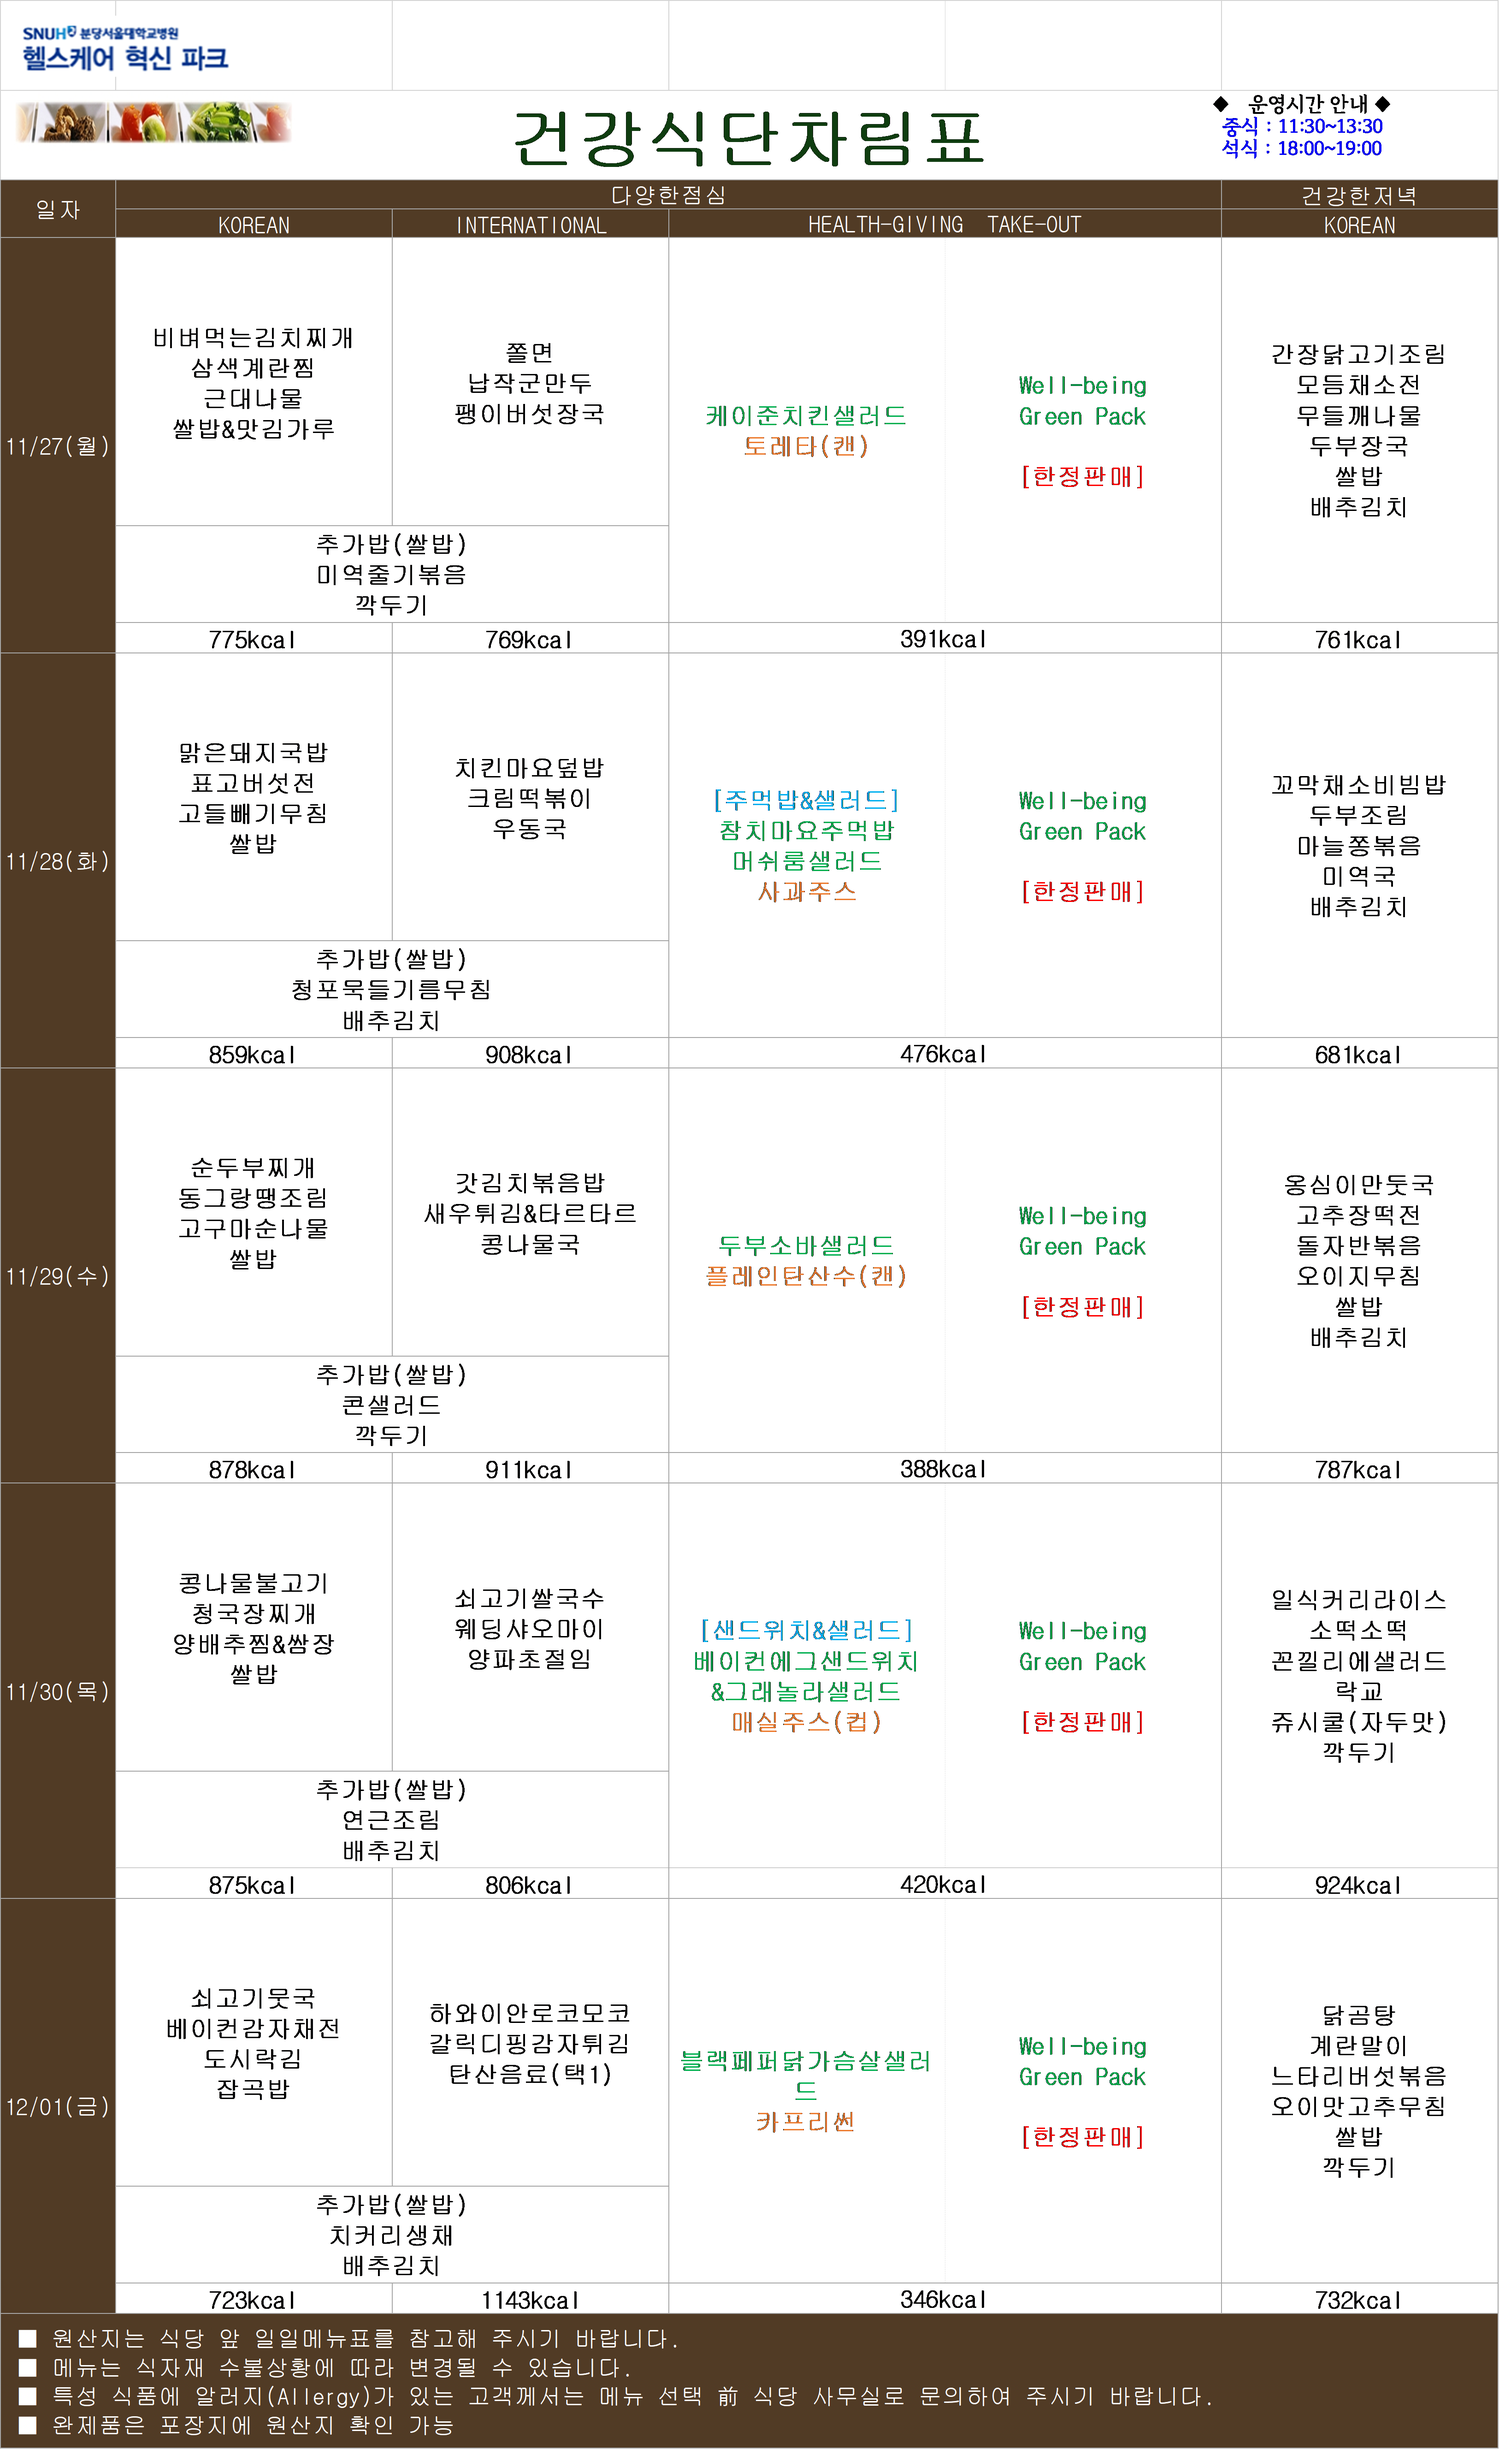
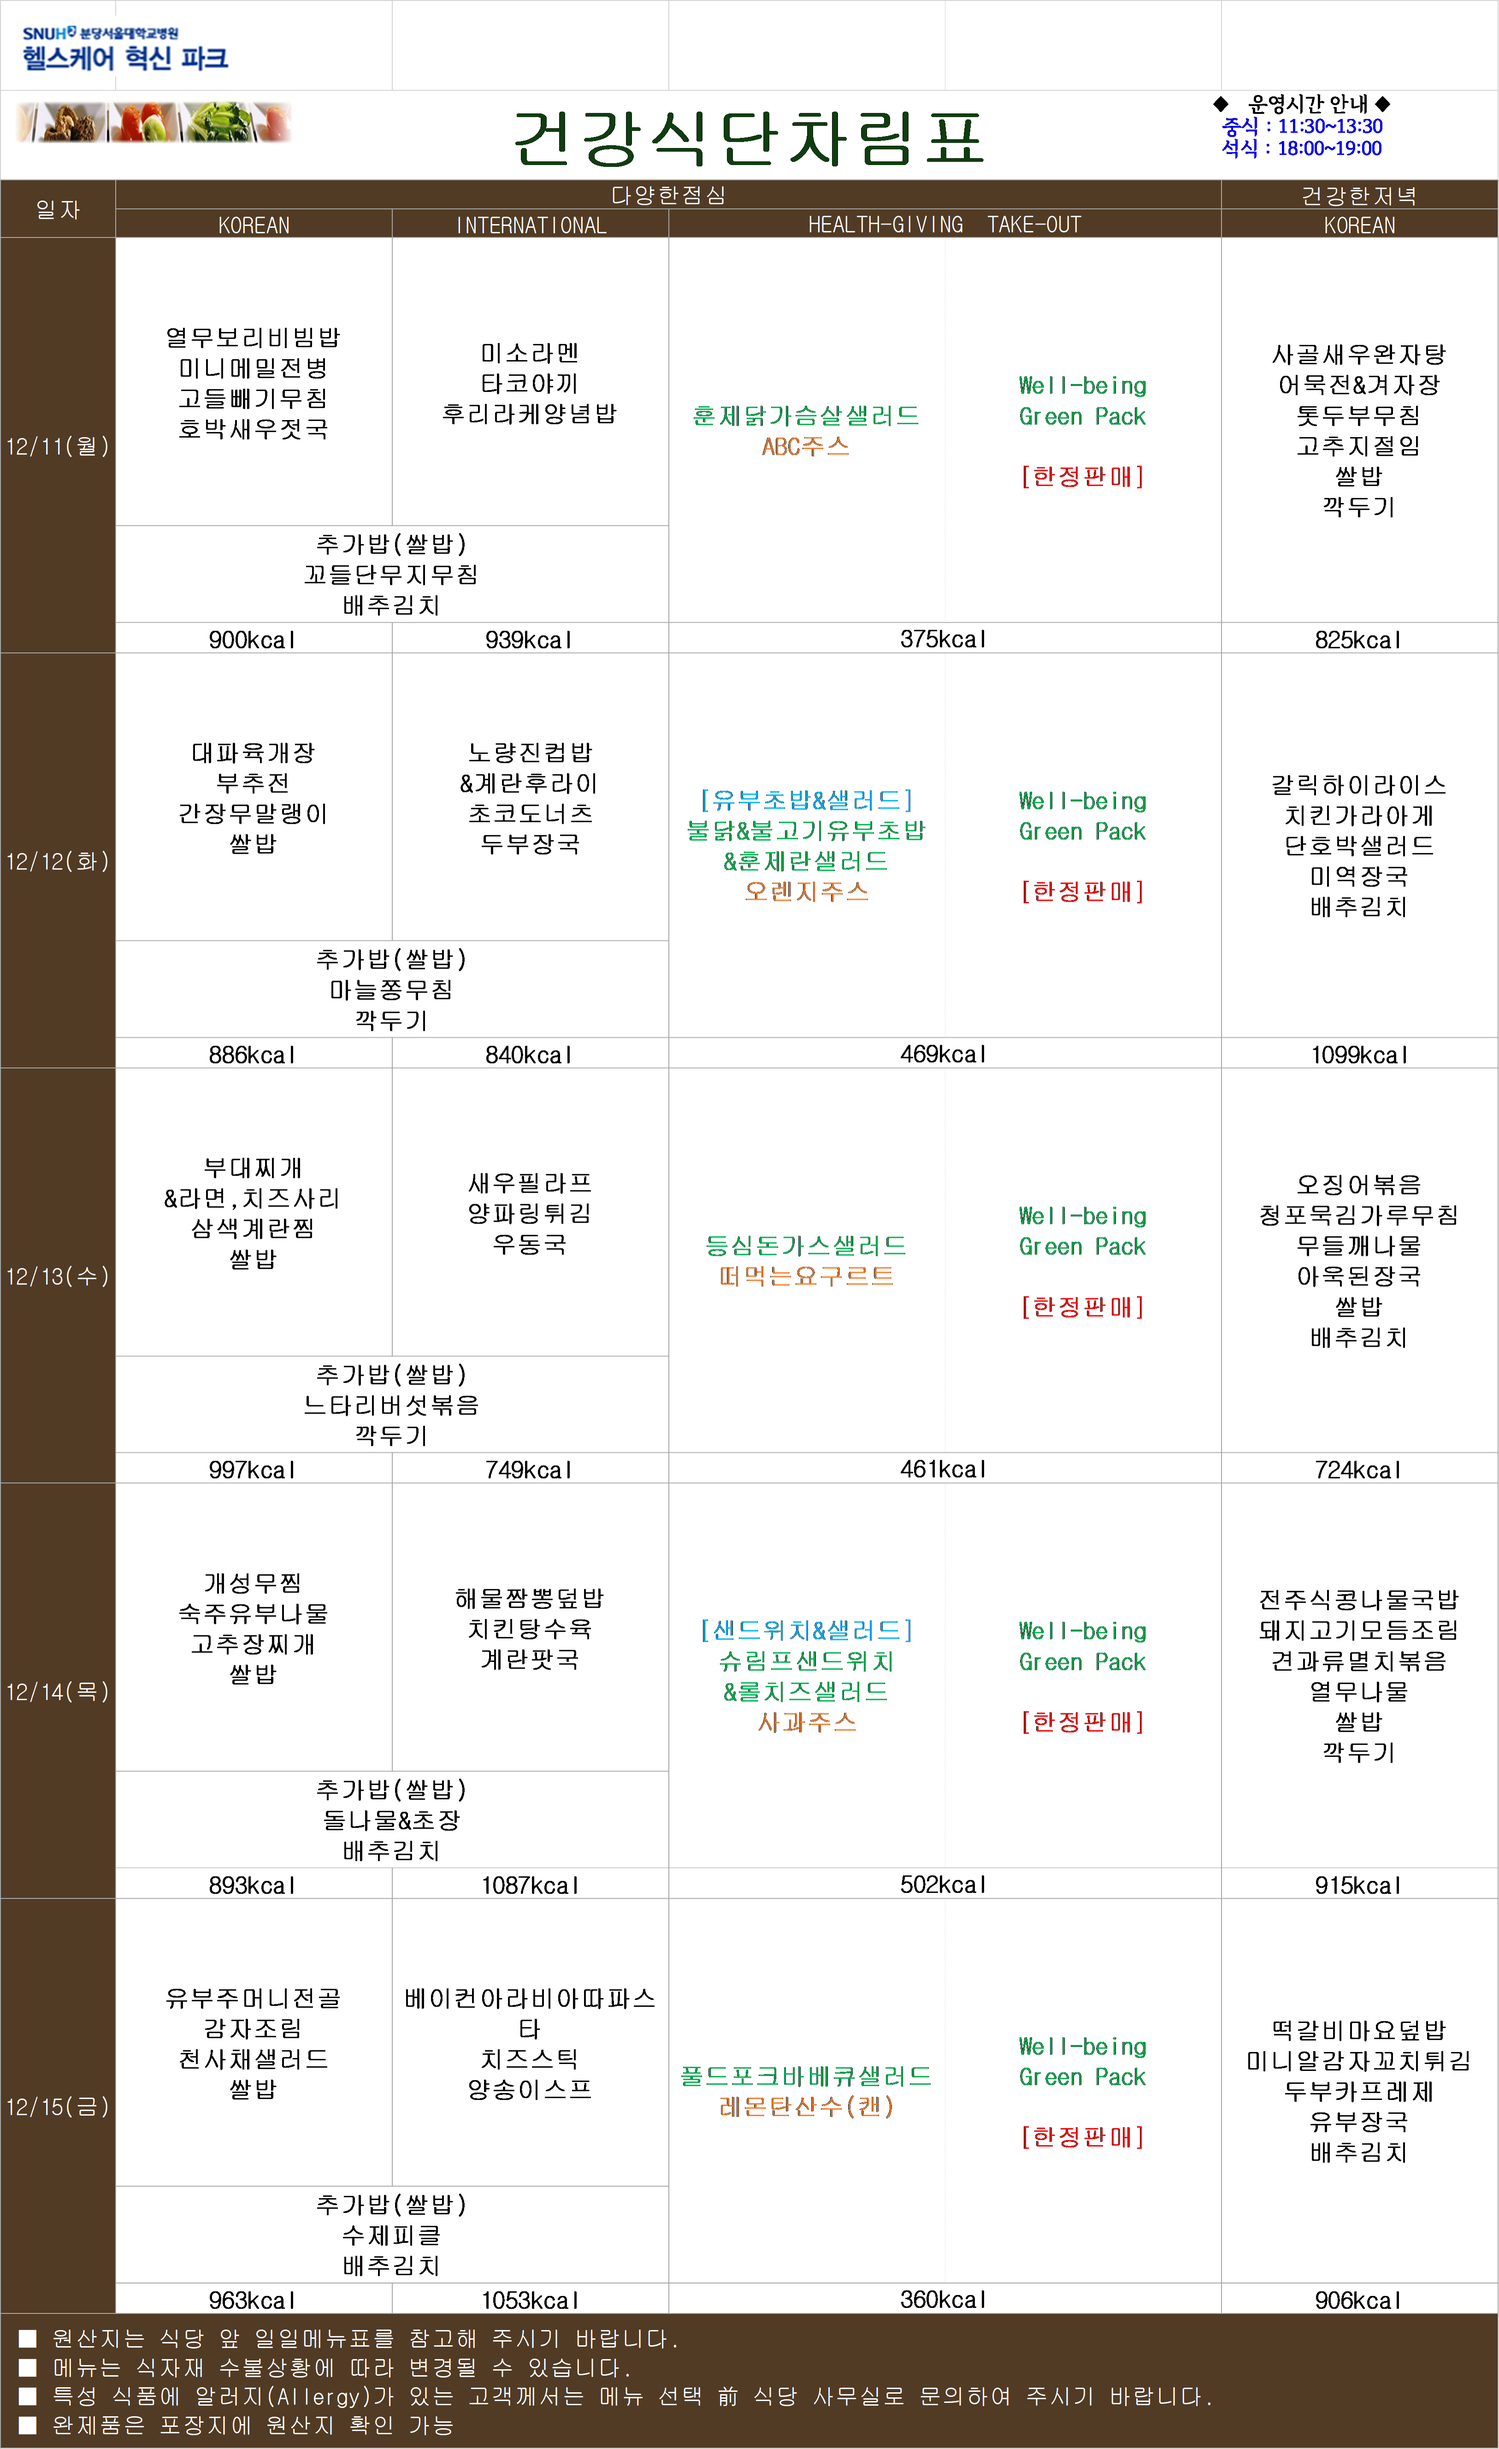
Add files via upload

diff --git a/6/index.html b/6/index.html
@@ -12,14 +12,14 @@
 <h2> 메뉴 업데이트는 주인장 여유가 되면 합니다. (이미지 확대해서 보세요) <br> </h2>
 
 <br>
-<h1> 11월 5주차 </h1>
+<h1> 12월 2주차 </h1>
 <img src="수술.png" width="100%">
 
 <br>
 <h1> 12월 1주차  </h1>
 <img src="수술_1.png" width="100%">
 
-<h6> Last update 2023/12/01  </h6>  
+<h6> Last update 2023/12/08  </h6>  
 <h1 >맛있게 드세요.  </h1> 
 
 </body>

diff --git a/1/index.html b/1/index.html
@@ -13,7 +13,7 @@
 
 
 <br>
-<h1> 11월 5주차  </h1>
+<h1> 12월 2주차  </h1>
 <img src="1동.png" width="100%">
 
 <br>
@@ -22,7 +22,7 @@
 <img src="1동_1.png" width="100%">
 
 
-<h6> Last update 2023/12/01  </h6>  
+<h6> Last update 2023/12/08  </h6>  
 <h1 >맛있게 드세요.  </h1> 
 
 </body>

diff --git a/2/index.html b/2/index.html
@@ -14,7 +14,7 @@
 
 
 <br>
-<h1> 11월 5주차  </h1>
+<h1> 12월 2주차  </h1>
 <img src="HIP.png" width="50%">
 
 <br>
@@ -23,7 +23,7 @@
 <img src="HIP_1.png" width="100%">
 
 
-<h6> Last update 2023/12/01  </h6>  
+<h6> Last update 2023/12/08  </h6>  
 <h1 >맛있게 드세요.  </h1> 
 
 </body>
